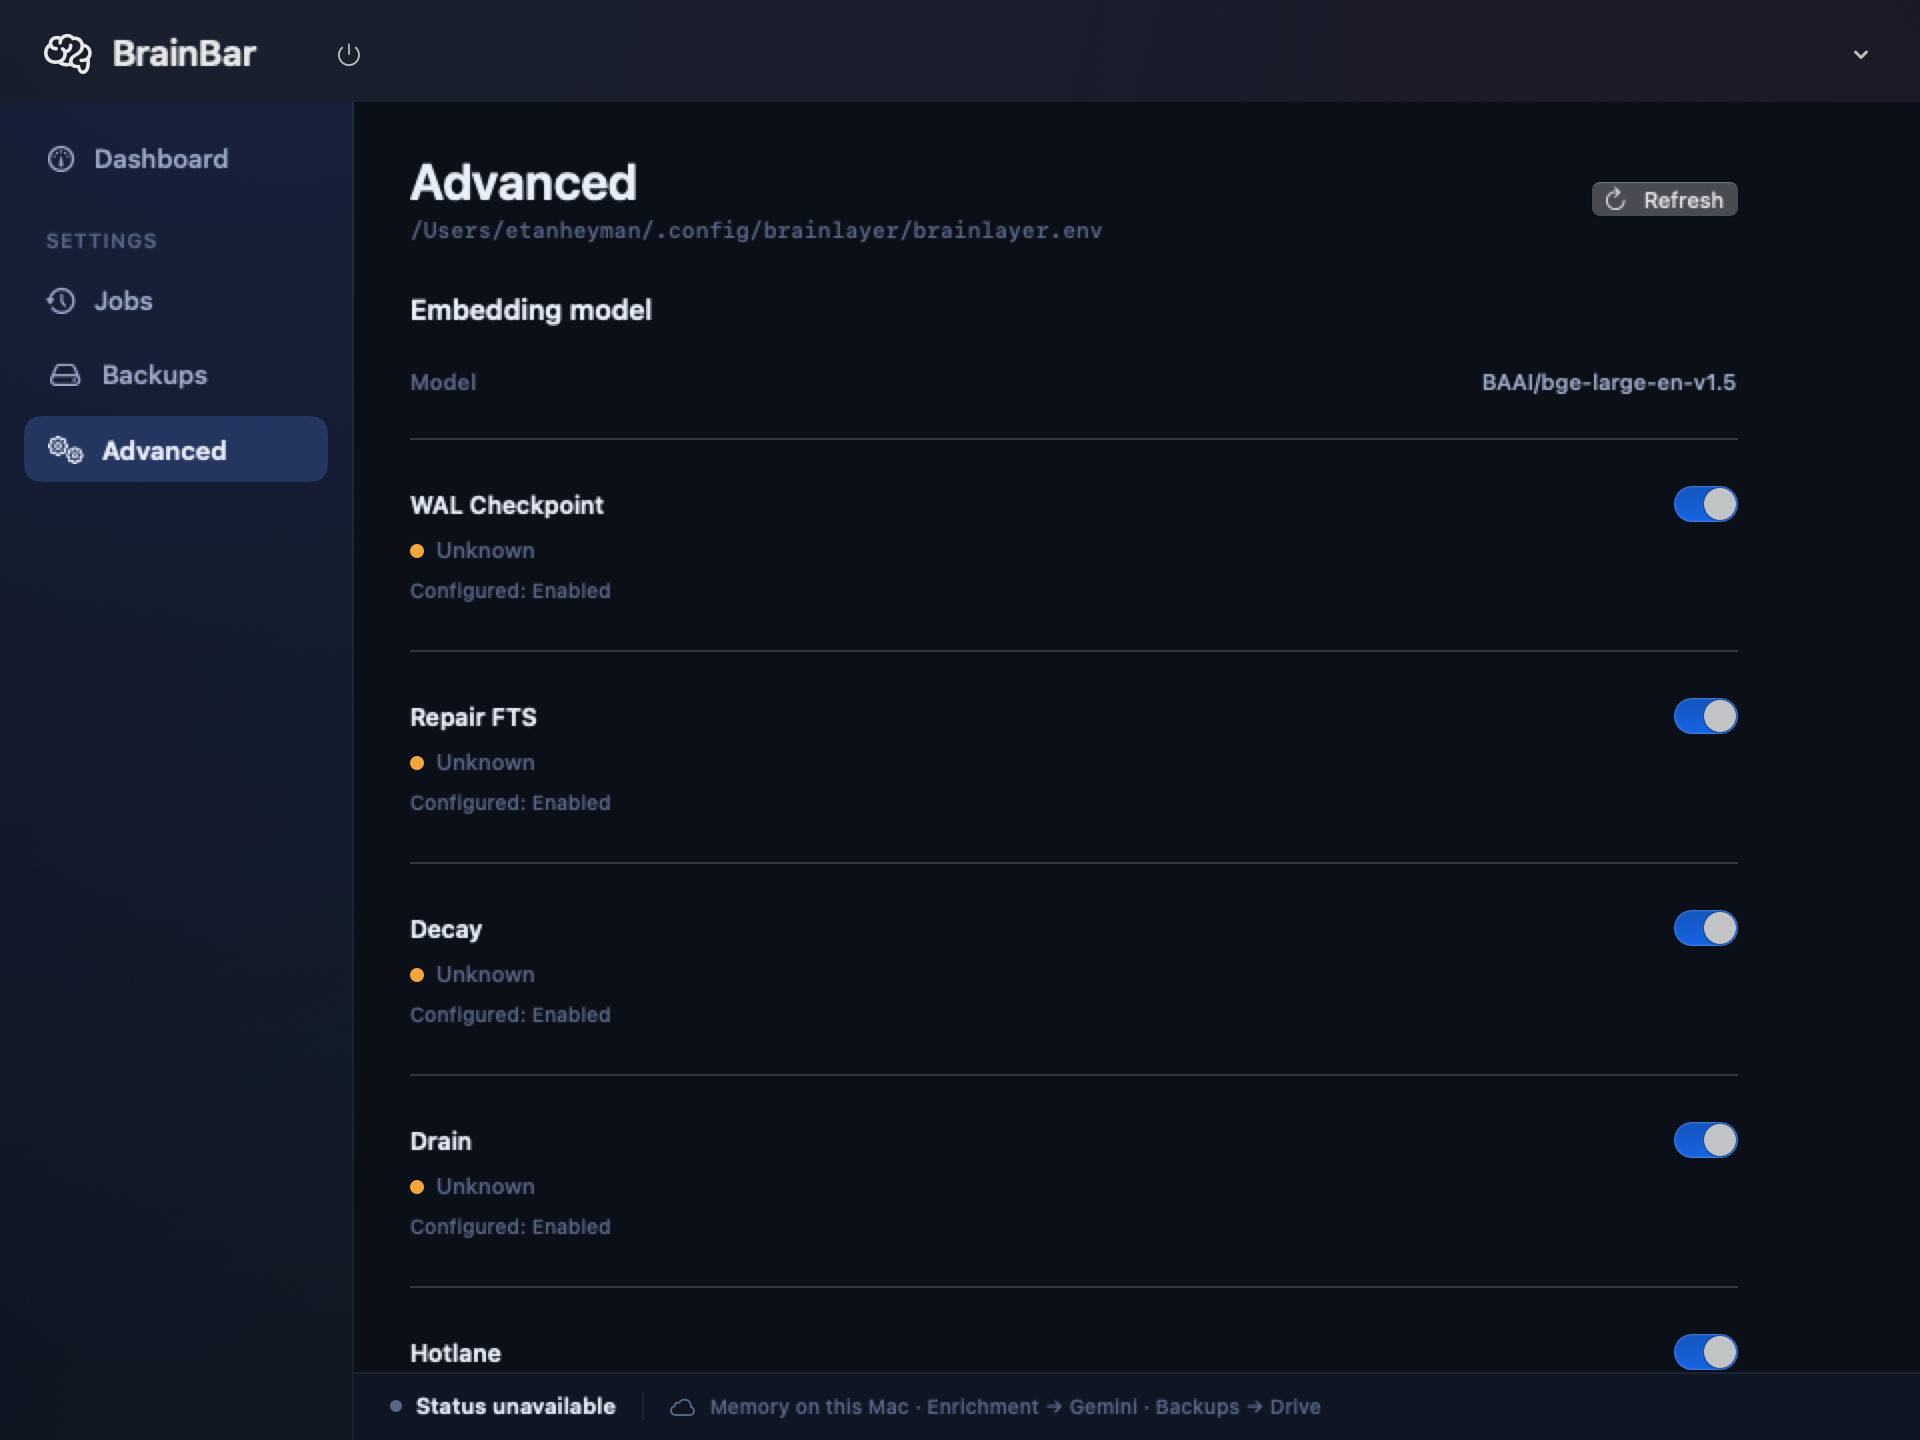
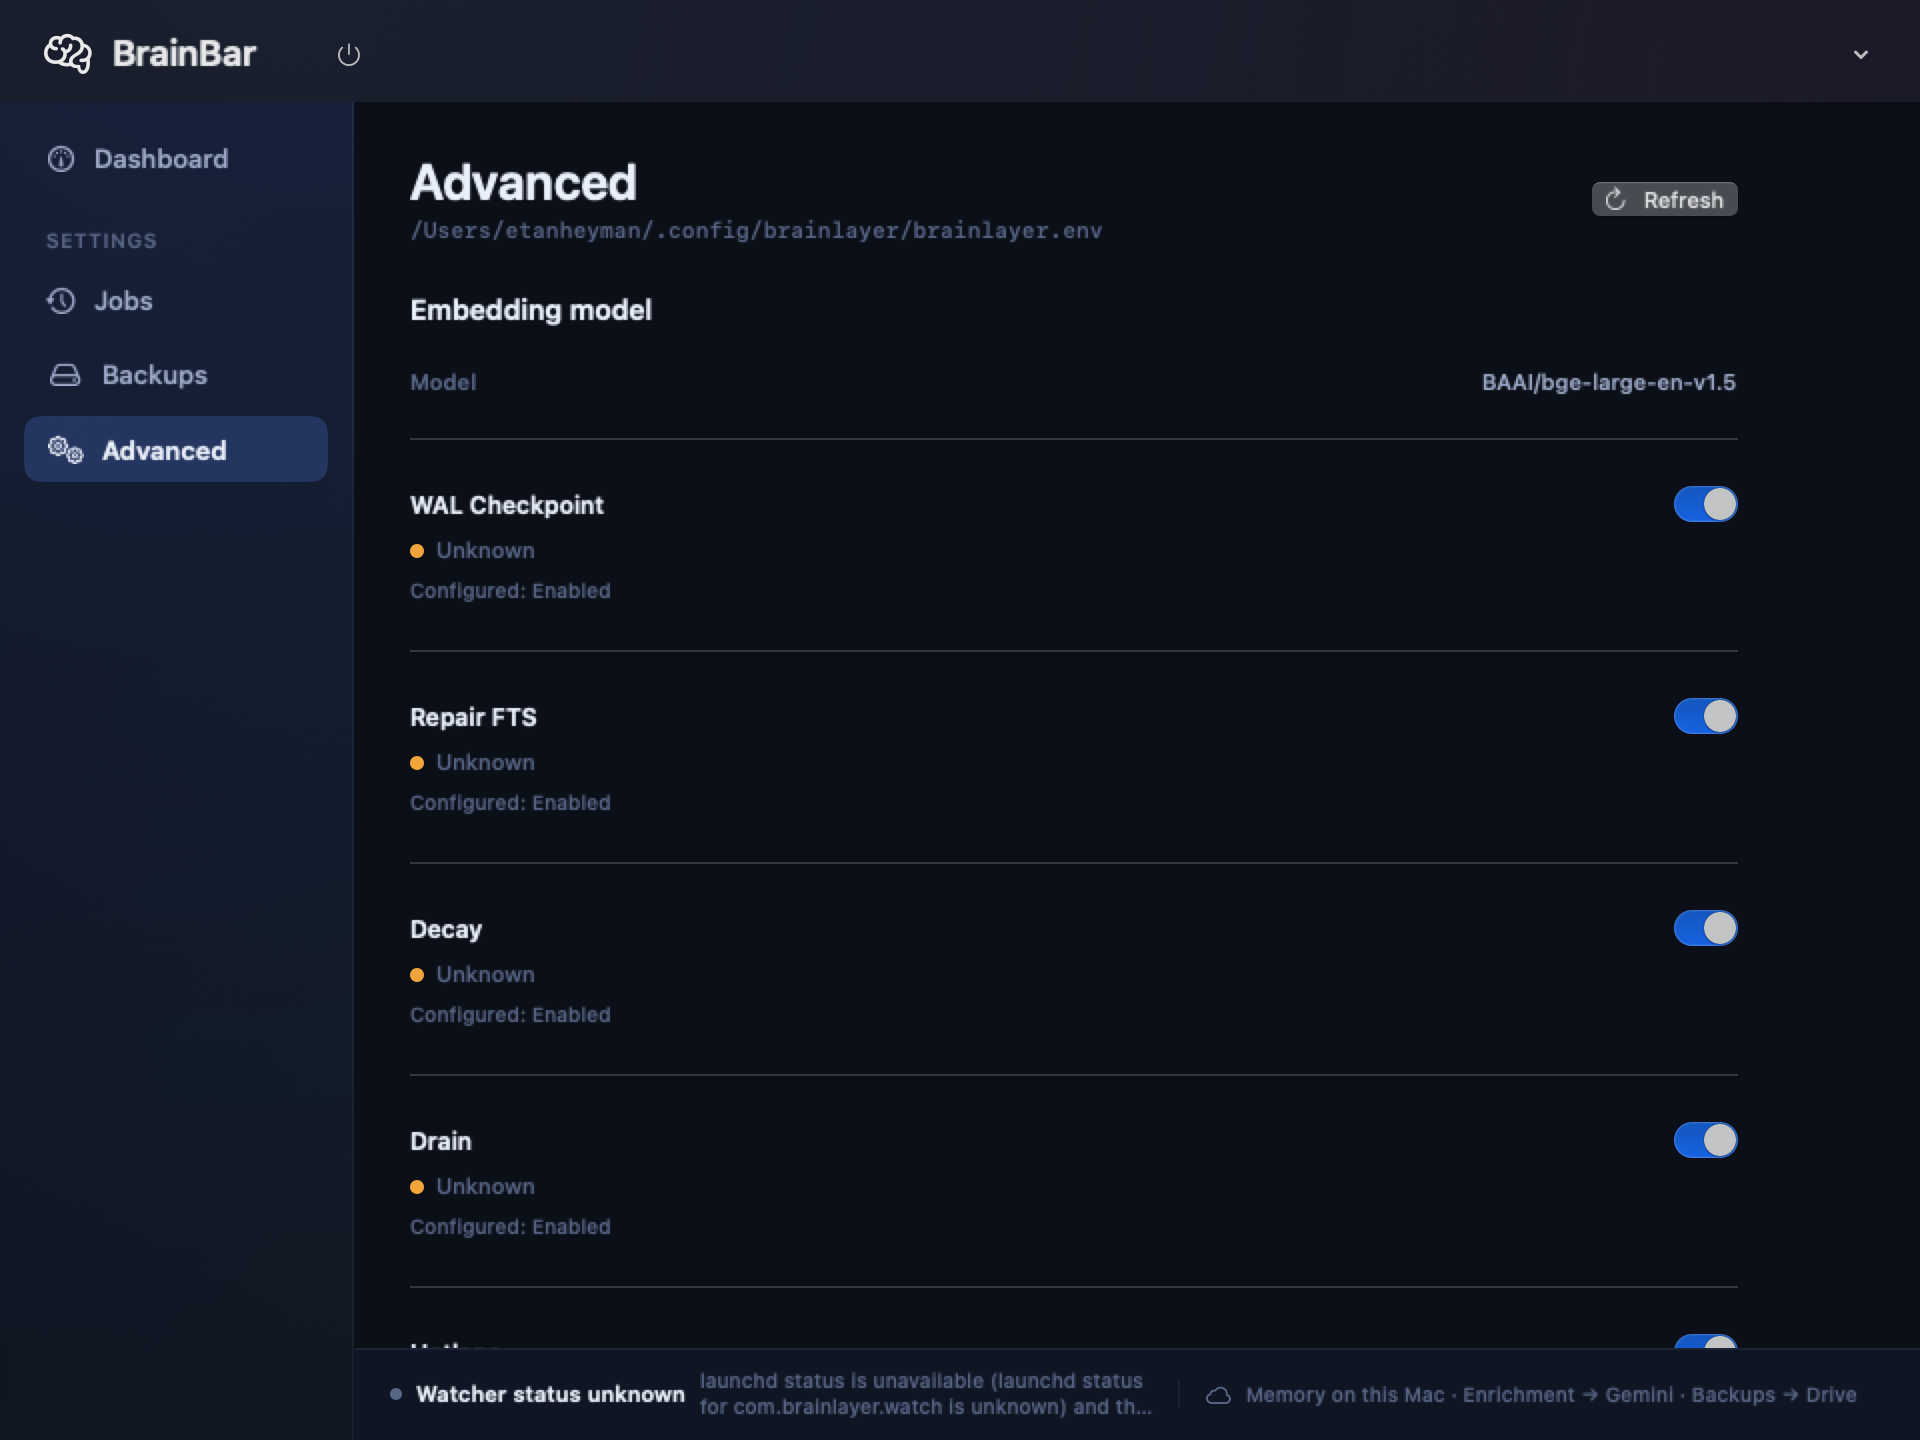
docs(brainbar): re-render the one-window sidebar on main with #1014 and #1016
The Backups page now carries #1016's Schedule block with Reveal/Copy, and Jobs and the footer
carry #1014's watcher-health line, all inside the one sidebar. The Dashboard count is from
#1014's watcher truth on the fixture runtime.

Changed region(s): [[0.2188, 0.9375, 0.6875, 1.0], [0.8438, 0.9375, 0.9062, 0.9688]]

diff --git a/brain-bar/docs/ui-renders/2026-09-30-one-window-sidebar/README.md b/brain-bar/docs/ui-renders/2026-09-30-one-window-sidebar/README.md
@@ -19,3 +19,5 @@ BRAINBAR_DB_PATH=<scratch>/brainlayer.db BRAINBAR_RENDER_ONLY=<scratch>/out .bui
 - **Contact sheets** covering all three widths: [Dashboard](contact-sheet-dashboard-760-960-1280.png), and [Settings](contact-sheet-settings-760-960-1280.png) (Jobs, Backups, Advanced, and the save-receipt state).
 
 The "unavailable" rows come from the fixture runtime, which has no DB path or backup status.
+
+These renders are re-generated on `main` after #1014 and #1016 merged. The Backups page shows #1016's Schedule block with Reveal in Finder / Copy path, and the Jobs page and footer show #1014's watcher-health line, all inside the one sidebar.
